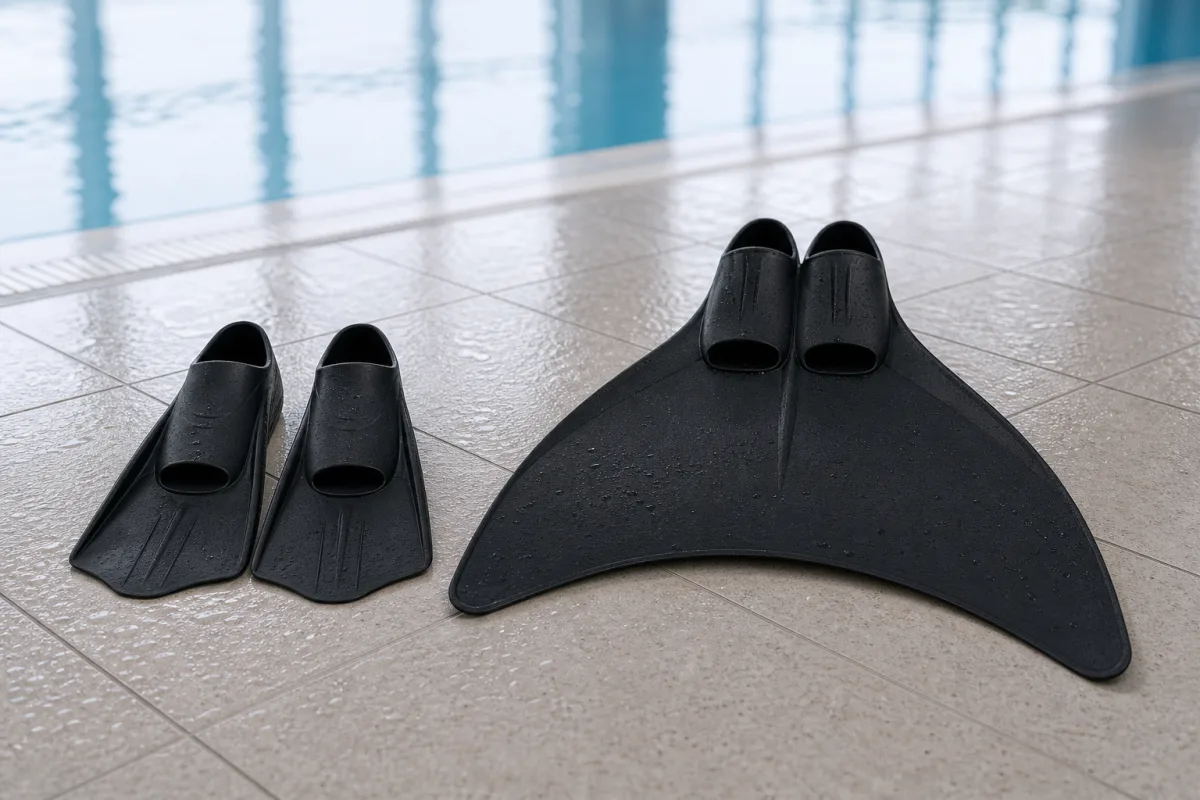
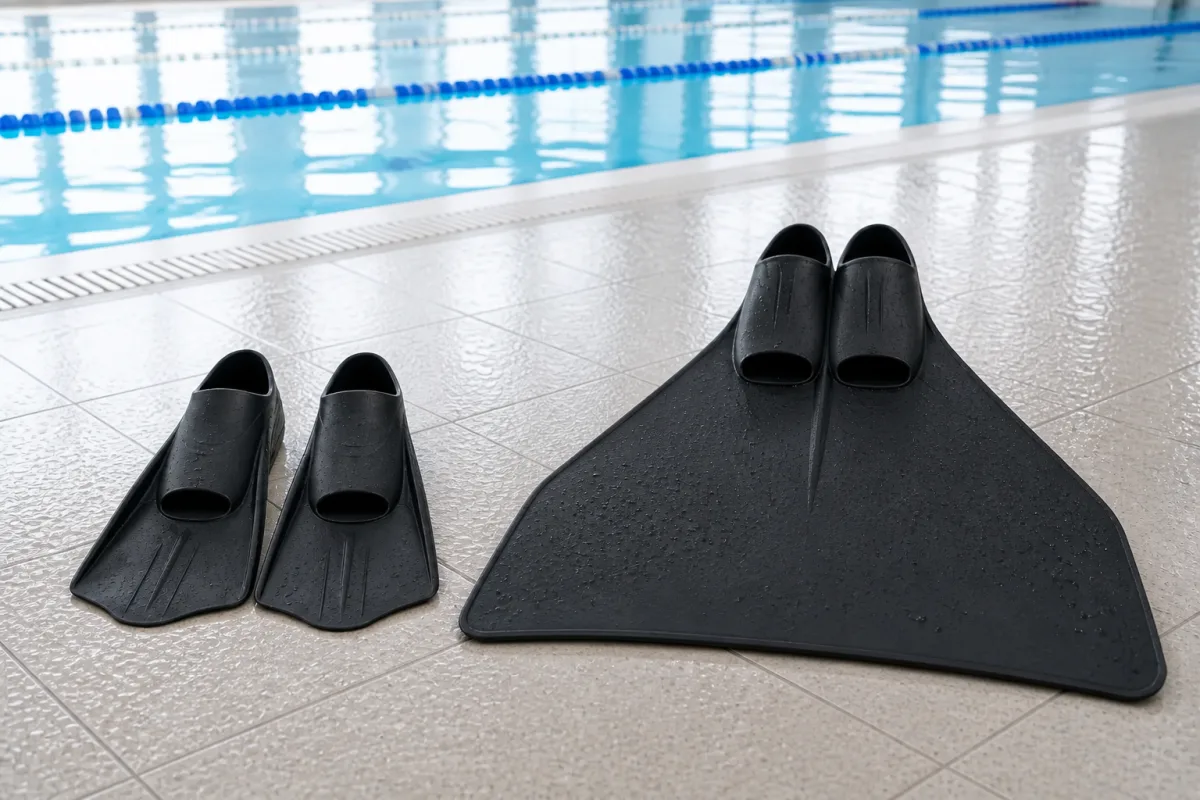
feat: 破綻していた生成写真4枚を再生成し差し替え（P01/P03/P04/P20）
原寸検分で「エイリアン化」していた4枚を、レッスン写真と同じ
パイプライン（JSON構造化プロンプト＋トーン参照）で全数置換。
- P01 FV: 縦に浮いた物理的にありえないフィン・ボードの文字焼き込み・
  左端の人物切れを解消。コーチ＋大人3名の輪＋プールサイドのモノフィン
  という構成で作り直し（同名上書きで og:image URL は維持）
- P03 About物撮り: 人魚玩具風だったモノフィンを、レッスン写真と同型の
  台形ブレード競技用モノフィンに統一
- P04 おすすめ男性: 吹き出し文字の焼き込み・409x240の低解像度・背景人物の
  溶けを解消（新規は円形クロップ前提の構図・webp化）
- P20 道具セット: 文字焼き込み・モノフィン形状崩壊・漫画スパーク混入を
  解消。俯瞰フラットレイの実在製品形状で再構成（モノフィン・ビーフィン・
  ゴーグル・キャップ、シュノーケルは持ち物リスト外のため除外）
- 全4枚を目視検収（手指・顔・形状・文字なし）。旧PNG 2枚は削除、
  alt文を新写真に合わせ更新
- 維持: P05/P06/P21/P22（7月再生成済みで健全と確認）

diff --git a/index.html b/index.html
@@ -4217,7 +4217,7 @@
       </div>
 
       <div class="photo-stack" aria-hidden="false">
-        <div class="photo-bubble pb-1"><img src="project/assets/p3-man-top.png" alt="プールサイドでくつろぐ男性" loading="lazy" decoding="async"  data-photo="P04"/></div>
+        <div class="photo-bubble pb-1"><img src="project/assets/p3-man-top.webp" alt="プールの縁で笑顔を見せる男性参加者" loading="lazy" decoding="async"  data-photo="P04"/></div>
         <div class="photo-bubble pb-2"><img src="project/assets/p3-kids.webp" alt="ビーフィンを手にした女性参加者" loading="lazy" decoding="async"  data-photo="P05"/></div>
         <div class="photo-bubble pb-3"><img src="project/assets/p3-woman.webp" alt="ゴーグルを整えて泳ぐ準備をする女性スイマー" loading="lazy" decoding="async"  data-photo="P06"/></div>
 
@@ -4785,7 +4785,7 @@
             </a>
           </div>
           <div class="rv-equipment">
-            <img src="project/assets/equipment.png" alt="フィン・キャップ・ゴーグル・シュノーケル" loading="lazy" decoding="async"  data-photo="P20"/>
+            <img src="project/assets/equipment.webp" alt="モノフィン・ビーフィン・ゴーグル・スイムキャップのレッスン道具" loading="lazy" decoding="async"  data-photo="P20"/>
           </div>
         </div>
 
